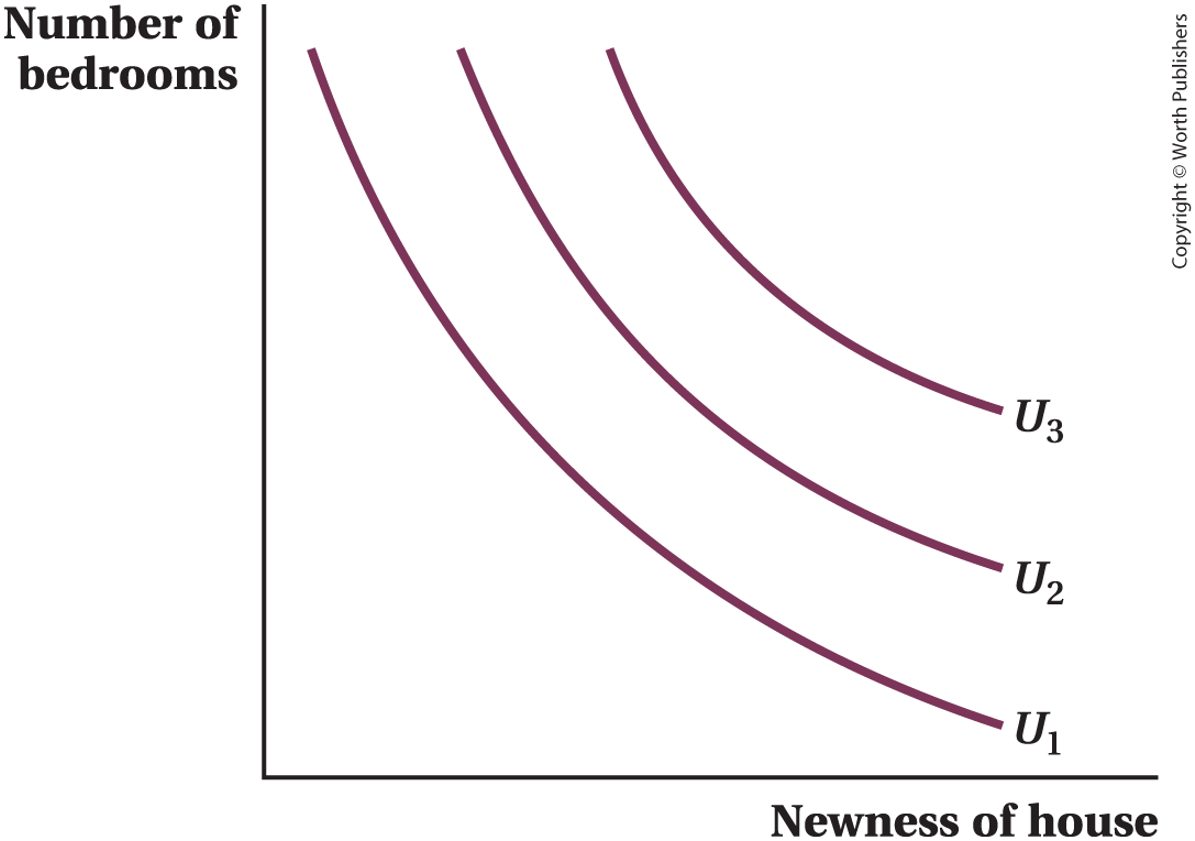
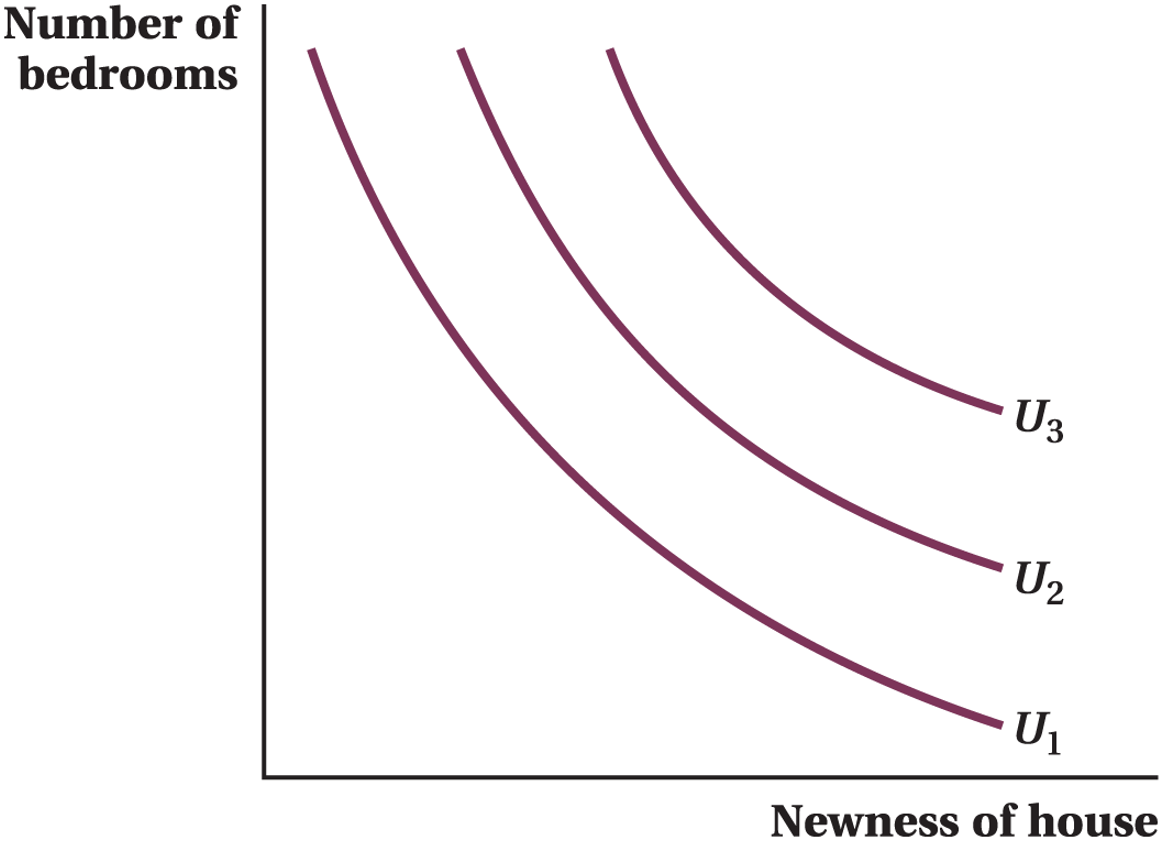
ch04: drop "Figure X.X" prefix from slide titles + refresh 3 PNGs
Title cleanup -- the figure-number prefix is bookkeeping that
doesn't belong in the slide title:
  "Figure 4.8 -- The Curvature of Indifference Curves"
    -> "The Curvature of Indifference Curves"
  "Figure 4.11 -- The Same Consumer Can Have Different Shapes"
    -> "The Same Consumer Can Have Different Shapes"

Re-sync 3 updated PNGs from the source folder
(david_ricardo.png, bad1.png, bad2good.png) -- source files were
edited after the previous push so the deploy copies were stale.

diff --git a/econ2316/ch04-preferences-utility/index.html b/econ2316/ch04-preferences-utility/index.html
@@ -2343,7 +2343,7 @@
 
 <!-- ===== Slide 42b — Figure 4.8: the curvature spectrum ===== -->
 <section id="s4-curvature-figure">
-  <h2><i class="fa-solid fa-chart-line" style="color: var(--accent-color);"></i> Figure 4.8 &mdash; The Curvature of Indifference Curves</h2>
+  <h2><i class="fa-solid fa-chart-line" style="color: var(--accent-color);"></i> The Curvature of Indifference Curves</h2>
   <div style="text-align: center;">
     <img alt="Figure 4.8 — panel (a) almost-straight indifference curves for decaf lattes vs decaf coffees; panel (b) very curved indifference curves for tortilla chips vs guacamole" class="figure" src="figures/almost_straight_curved.png" style="max-width: 100%; max-height: 280px; box-shadow: 0 4px 14px rgba(0,0,0,0.12); border-radius: 6px;">
   </div>
@@ -2394,7 +2394,7 @@
 
 <!-- ===== Slide 42c — Figure 4.11: same consumer, different shapes ===== -->
 <section id="s4-ic-shapes-vary">
-  <h2>Figure 4.11 &mdash; The Same Consumer Can Have Different Shapes</h2>
+  <h2>The Same Consumer Can Have Different Shapes</h2>
   <div style="display: grid; grid-template-columns: 0.92fr 1.08fr; gap: 24px; align-items: center;">
     <div style="text-align: center;">
       <img alt="Figure 4.11 — two indifference curves for one consumer: U_A is gently curved at low utility, U_B is sharply curved at high utility, bananas on the vertical axis and strawberries on the horizontal" class="figure" src="figures/ic_over_time.png" style="max-width: 100%; max-height: 430px; box-shadow: 0 4px 14px rgba(0,0,0,0.12); border-radius: 6px;">

diff --git a/econ2316/ch04-preferences-utility/presentation.html b/econ2316/ch04-preferences-utility/presentation.html
@@ -2343,7 +2343,7 @@
 
 <!-- ===== Slide 42b — Figure 4.8: the curvature spectrum ===== -->
 <section id="s4-curvature-figure">
-  <h2><i class="fa-solid fa-chart-line" style="color: var(--accent-color);"></i> Figure 4.8 &mdash; The Curvature of Indifference Curves</h2>
+  <h2><i class="fa-solid fa-chart-line" style="color: var(--accent-color);"></i> The Curvature of Indifference Curves</h2>
   <div style="text-align: center;">
     <img alt="Figure 4.8 — panel (a) almost-straight indifference curves for decaf lattes vs decaf coffees; panel (b) very curved indifference curves for tortilla chips vs guacamole" class="figure" src="figures/almost_straight_curved.png" style="max-width: 100%; max-height: 280px; box-shadow: 0 4px 14px rgba(0,0,0,0.12); border-radius: 6px;">
   </div>
@@ -2394,7 +2394,7 @@
 
 <!-- ===== Slide 42c — Figure 4.11: same consumer, different shapes ===== -->
 <section id="s4-ic-shapes-vary">
-  <h2>Figure 4.11 &mdash; The Same Consumer Can Have Different Shapes</h2>
+  <h2>The Same Consumer Can Have Different Shapes</h2>
   <div style="display: grid; grid-template-columns: 0.92fr 1.08fr; gap: 24px; align-items: center;">
     <div style="text-align: center;">
       <img alt="Figure 4.11 — two indifference curves for one consumer: U_A is gently curved at low utility, U_B is sharply curved at high utility, bananas on the vertical axis and strawberries on the horizontal" class="figure" src="figures/ic_over_time.png" style="max-width: 100%; max-height: 430px; box-shadow: 0 4px 14px rgba(0,0,0,0.12); border-radius: 6px;">
